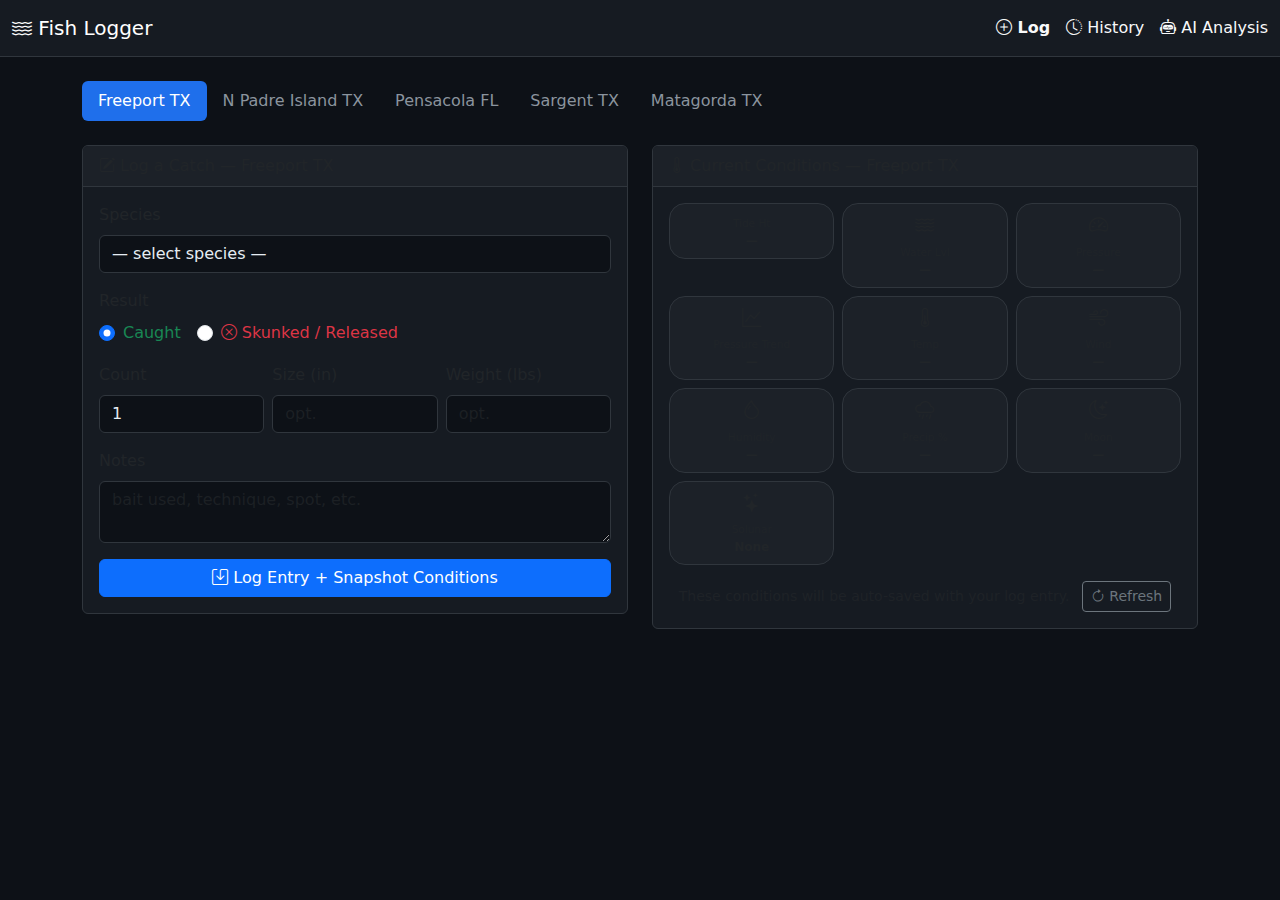
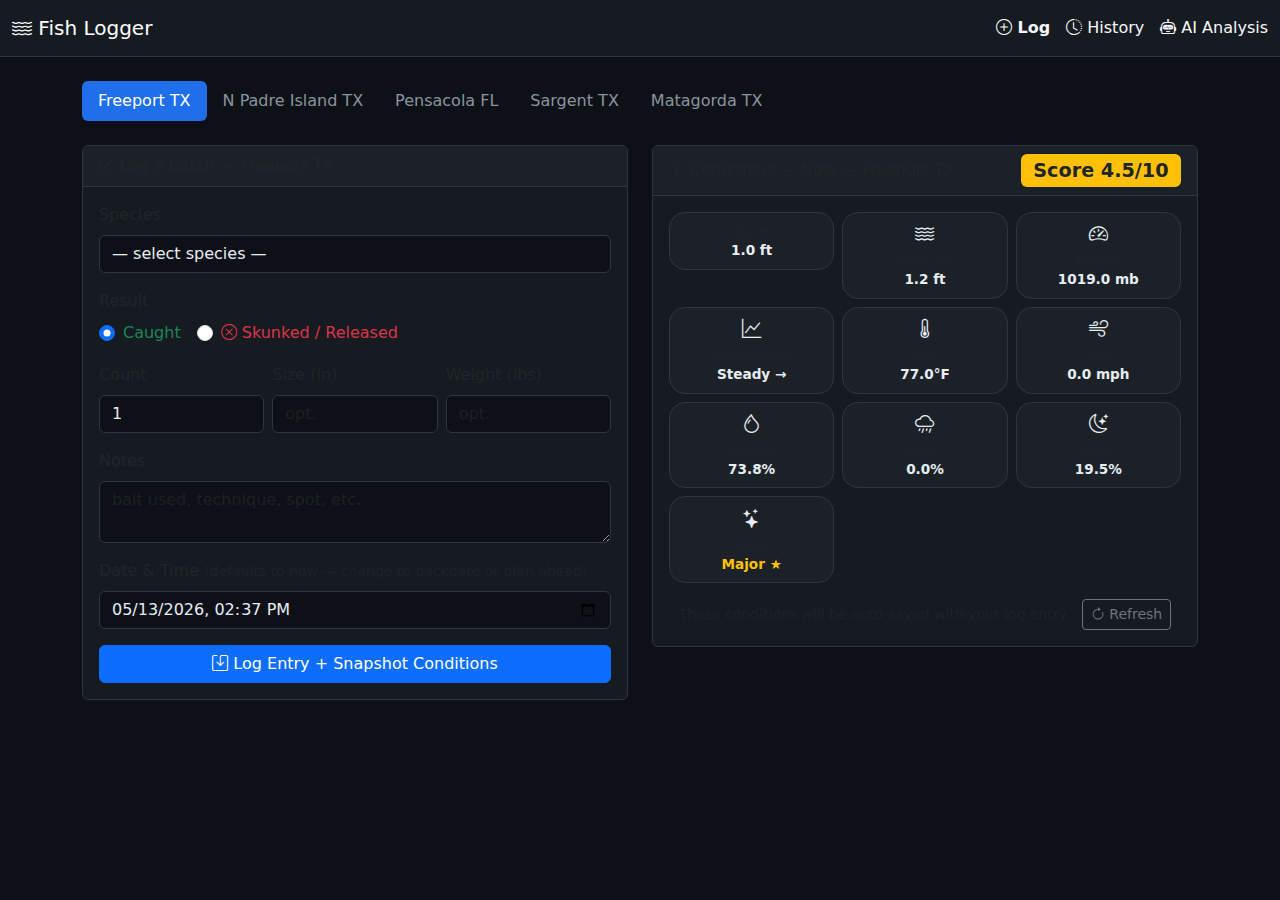
Refresh screenshots; fix condition pill text color
Screenshots retaken showing datetime picker and live conditions panel.
Added explicit color:#e6edf3 to .condition-pill and .condition-pill strong
so values are readable in all browsers without relying on inheritance.

diff --git a/fish_logger/templates/base.html b/fish_logger/templates/base.html
@@ -17,7 +17,8 @@
     .table-dark { --bs-table-bg: #161b22; --bs-table-border-color: #30363d; }
     .badge-caught   { background: #1f6335; }
     .badge-skunked  { background: #6e1c1c; }
-    .condition-pill { font-size:.75rem; padding:.25rem .6rem; border-radius:1rem; background:#1c2128; border:1px solid #30363d; }
+    .condition-pill { font-size:.75rem; padding:.25rem .6rem; border-radius:1rem; background:#1c2128; border:1px solid #30363d; color:#e6edf3; }
+    .condition-pill strong { color:#e6edf3; font-size:.85rem; }
     .nav-pills .nav-link.active { background: #1f6feb; }
     .nav-pills .nav-link { color: #8b949e; }
     .analysis-body { font-family: inherit; font-size:.95rem; line-height:1.7; color:#e6edf3; }

diff --git a/scripts/take_screenshots.py b/scripts/take_screenshots.py
@@ -17,7 +17,7 @@ LOCATIONS = [
     "matagorda_tx",
 ]
 
-def shot(page, url, name, wait_ms=1200):
+def shot(page, url, name, wait_ms=2000):
     page.goto(url)
     page.wait_for_load_state("networkidle")
     time.sleep(wait_ms / 1000)
